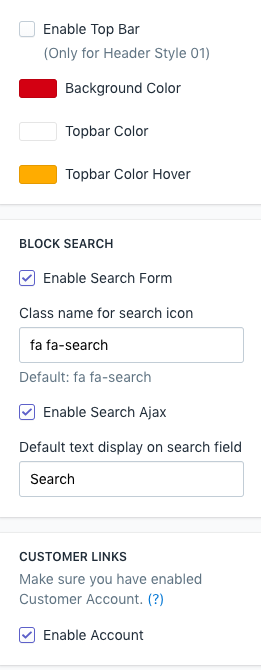
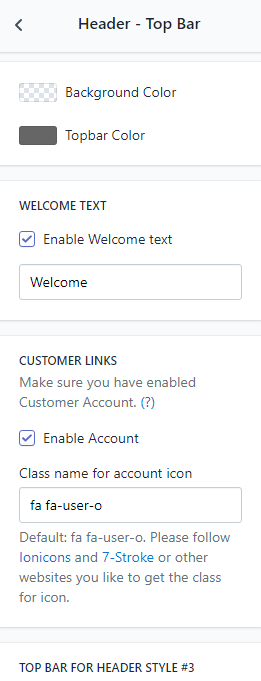
Updates setup-your-homepage.md
Auto commit by GitBook Editor

diff --git a/setup-your-homepage.md b/setup-your-homepage.md
@@ -2,52 +2,75 @@ When you install our app [Arena Installation](https://install.arenathemes.com/ad
 
 ### **Fixed Homepage Block**
 
-Fixed blocks are exactly what you’d guess they are—components that are fixed to certain areas of your site and cannot be moved. In our theme, there are four fixed homepage blocks: **Top Bar, Header,  Instagram-Newsletter Block, Footer.**
+Fixed blocks are exactly what you’d guess they are—components that are fixed to certain areas of your site and cannot be moved. In our theme, there are four fixed homepage blocks: **Top Bar, Header, Instagram - Newsletter Block, Footer.**
 
 **To Config Topbar, Header & Footer please go to Themes -&gt; Customize Theme -&gt; Theme Settings**
-![](/assets/theme-settings.png)![](/assets/fixed block.png)
+![](/assets/theme-settings.png)![](/assets/fixed-blocks.png)
 
 ---
 
-#### **Top Bar \(only Header 1 style\)**
+#### **Top Bar**
+#### ![](/assets/topbar-header.jpg)
 
-#### ![](/assets/topbar - header.png)
-
-To Config Topbar go to **Theme Settings --&gt; Top Bar**
+To Config Top bar go to **Theme Settings --&gt; Header - Top Bar**
 
 #### ![](/assets/topbar.png)
 
 ---
 
 #### **Header**
+    
+Header appears on every page and is intended to be used to promote your company's brand and make it instantly recognizable to your visitors. This is a static block and cannot be repositioned. **We support 4 styles of header.**
 
-The header is the rectangular area that runs across the top of your store containing your **logo, navigation, best deal block**, **store location block, and cart, search**. It appears on every page and is intended to be used to promote your company's brand and make it instantly recognizable to your visitors. This is a static block and cannot be repositioned. **We support 4 styles of header.**
+    1. Header Style #1
+    ![](/assets/header_01.jpg)
+    
+    2. Header Style #2
+    ![](/assets/header_02.jpg)
+    
+    3. Header Style #3
+    ![](/assets/header_03.jpg)
+    
+    4. Header Style #4
+    Header style #4 is special because it has its own slideshow attached to it, so when you choose header style #4, you won't be able to use Section Slideshow.
+    ![](/assets/header-04_01.jpg)
 
-To Config Topbar go to **Theme Settings --&gt; Header**
 
-![](/assets/header.png)
+To Config Header, go to **Theme Settings --&gt; Header - Main**
 
-##### **Mega Navigation**
+![](/assets/header-settings.jpg)
 
-To install mega navigation please follow the instruction here: [https://arenathemes.freshdesk.com/support/solutions/articles/6000178155-mega-menu-setting-version-1-](https://arenathemes.freshdesk.com/support/solutions/articles/6000178155-mega-menu-setting-version-1-)
+#### Instagram - Newsletter
 
----
+You can turn on this function at **Theme Settings --&gt; Bottom section --&gt; Instagram and Newsletter**
 
-#### Service Bar Block
+![](/assets/insta-newsletter.png)
 
-Depend on design, there is a block content before the footer.![](/assets/service block display.png)
+After turn it on, please go to section **Instagram and Newsletter** to config it.
+![](/assets/section-insta-news.png)
 
-To Config Service Bar please go to To Config Topbar go to **Theme Settings --&gt; Service Bar Block**
-
-![](/assets/service bar.png)
+You can use Instagram or Newsletter only or both.
+    * Instagram and Newsletter
+    ![](/assets/insta-wt-newsletter_02.jpg)
+    
+    * Instagram only
+    ![](/assets/insta only.png)
 
 #### **Footer**
 
-Like a footer on a document or report, a website footer contains the information listed at the bottom of a page. Typically, the footer is the area that visitors expect to find the "fine print"—legal information such as terms and conditions and privacy policies, but also FAQs, size guides, and contact information. Our theme provides the space to display all of these and more.
+Like a footer on a document or report, a website footer contains the information listed at the bottom of a page. Typically, the footer is the area that visitors expect to find the "fine print"—legal information such as **terms and conditions** and **privacy policies**, but also **FAQs**, and **contact information**. Our theme provides 3 footer styles.
 
-![](/assets/footer.png)
+    1. Footer Style #1
+    ![](/assets/ft_1.png)
+    
+    2. Footer Style #2
+    ![](/assets/ft_2.jpg)
+    
+    3. Footer Style #3
+    ![](/assets/ft_3_02.jpg)
+    
 
-### 
+
 
 
 
